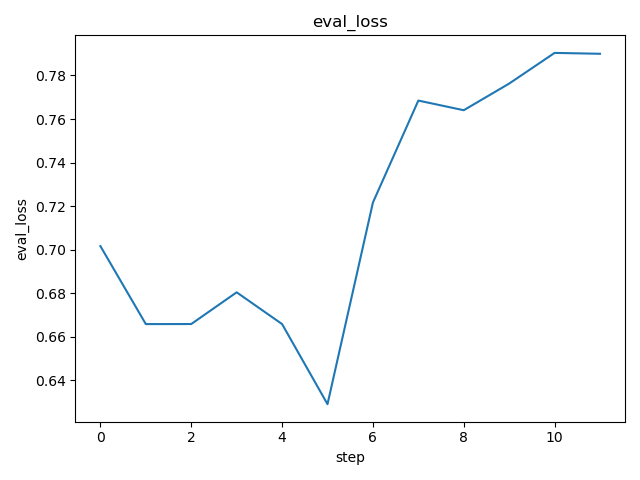
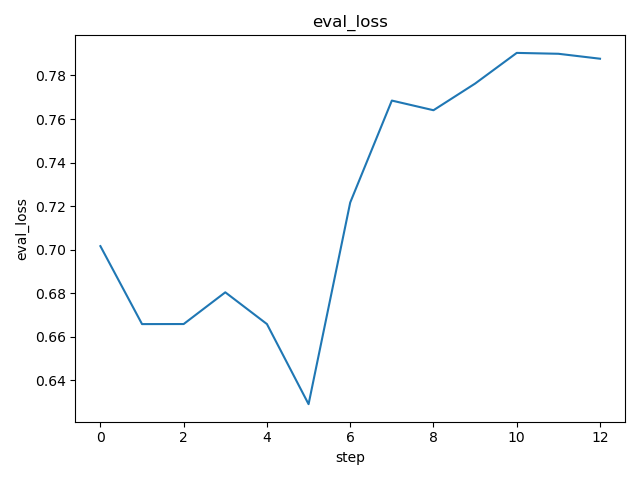
dvc: commit experiment 83e5e1d6178f780cd3c54801ba197aa91c0a1bf29744c6e0ecacffc6197daa42

diff --git a/data/ogt_protein_classifier/dvclive/report.md b/data/ogt_protein_classifier/dvclive/report.md
@@ -4,7 +4,7 @@ metrics.json
 
 |   loss |   learning_rate |   epoch |   eval_loss |   eval_f1 |   eval_accuracy |   eval_matthew |   eval_runtime |   eval_samples_per_second |   eval_steps_per_second |   step |
 |--------|-----------------|---------|-------------|-----------|-----------------|----------------|----------------|---------------------------|-------------------------|--------|
-| 0.0075 |         2.6e-05 |      24 |    0.789943 |  0.821053 |          0.7875 |       0.620264 |          3.235 |                     24.73 |                   0.618 |     11 |
+| 0.0068 |         2.4e-05 |      26 |    0.787675 |  0.821053 |          0.7875 |       0.620264 |         3.3115 |                    24.158 |                   0.604 |     12 |
 
 ![static/eval_steps_per_second](static/eval_steps_per_second.png)
 
